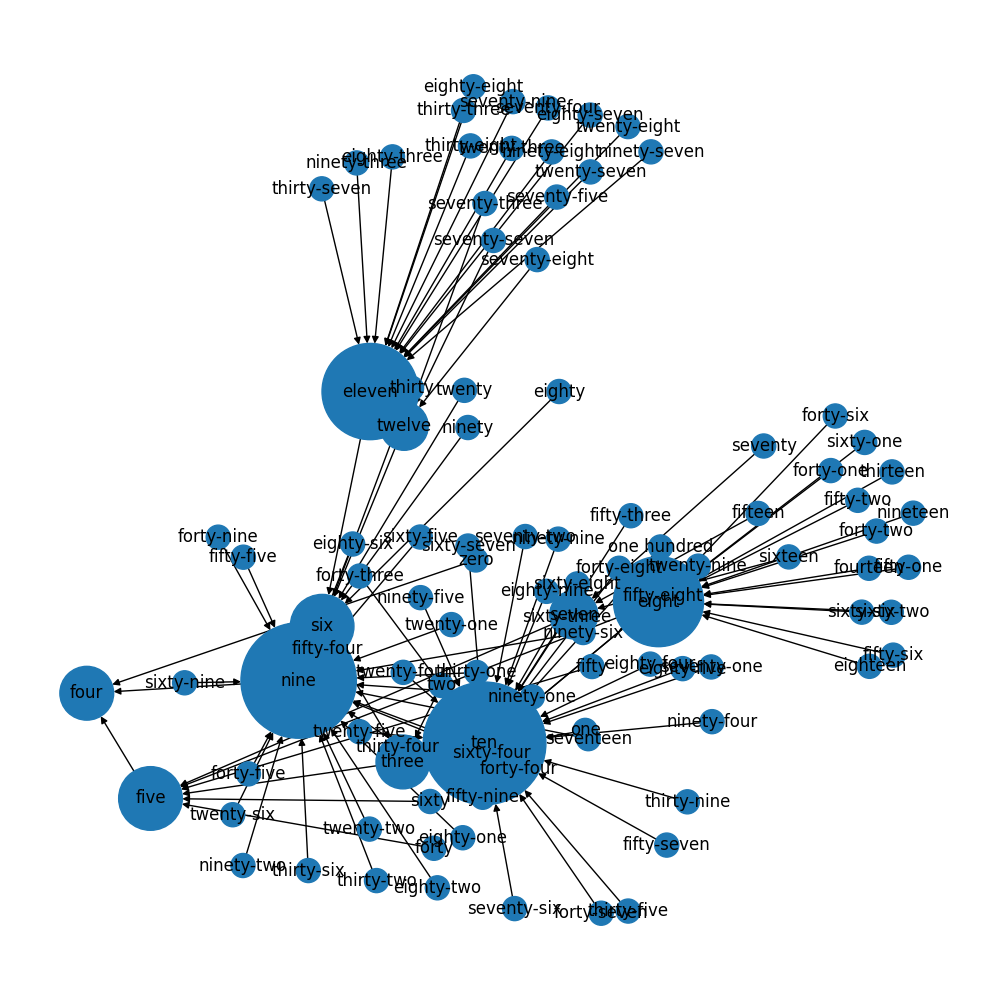
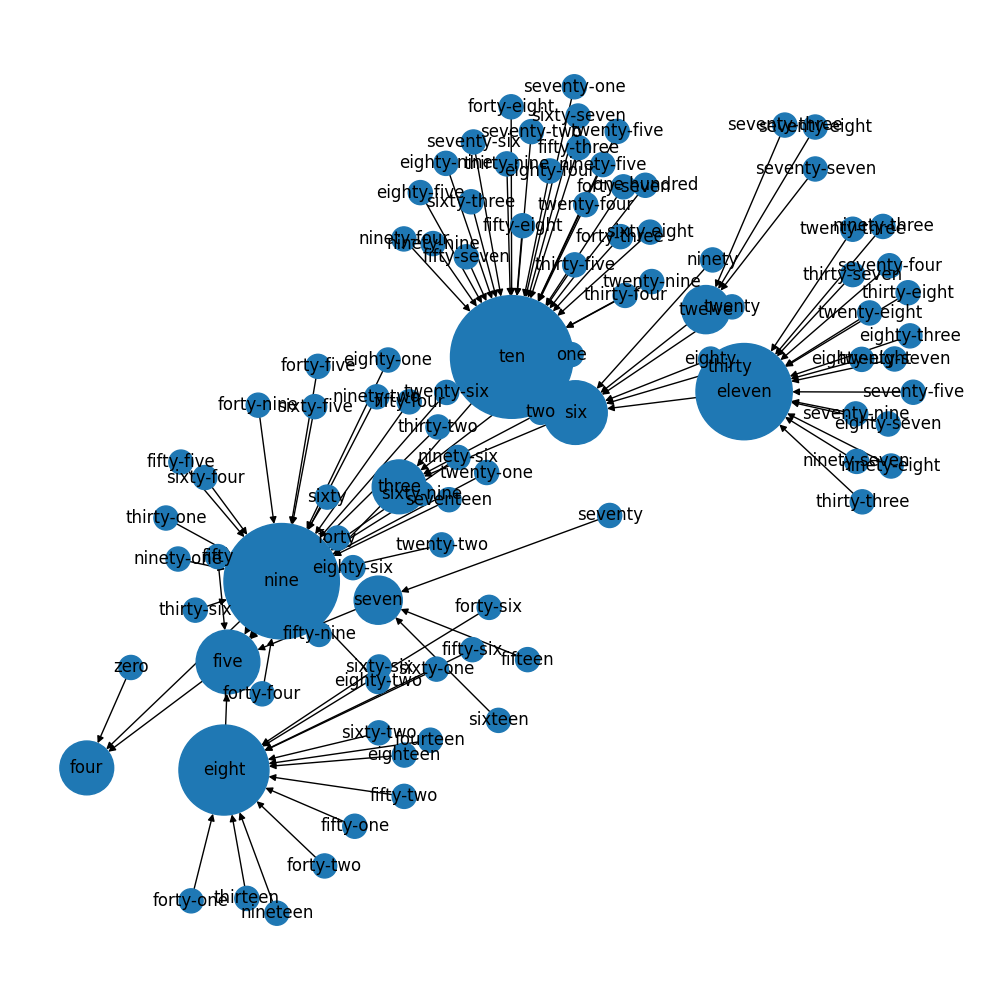
Implement spring layout for english100.

diff --git a/analysis/generate_figures.py b/analysis/generate_figures.py
@@ -35,8 +35,9 @@ def french10():
 
 def english100():
     en = Analyse("english", 100)
+    pos = nx.spring_layout(en.graph)
     plt.figure(figsize = (10, 10))
-    nx.draw(en.graph, with_labels=True, node_size=[300*d for d in en.degree.values()])
+    nx.draw(en.graph, pos, with_labels=True, node_size=[300*d for d in en.degree.values()])
     plt.savefig("figures/english100.png", format="PNG")
 
 
